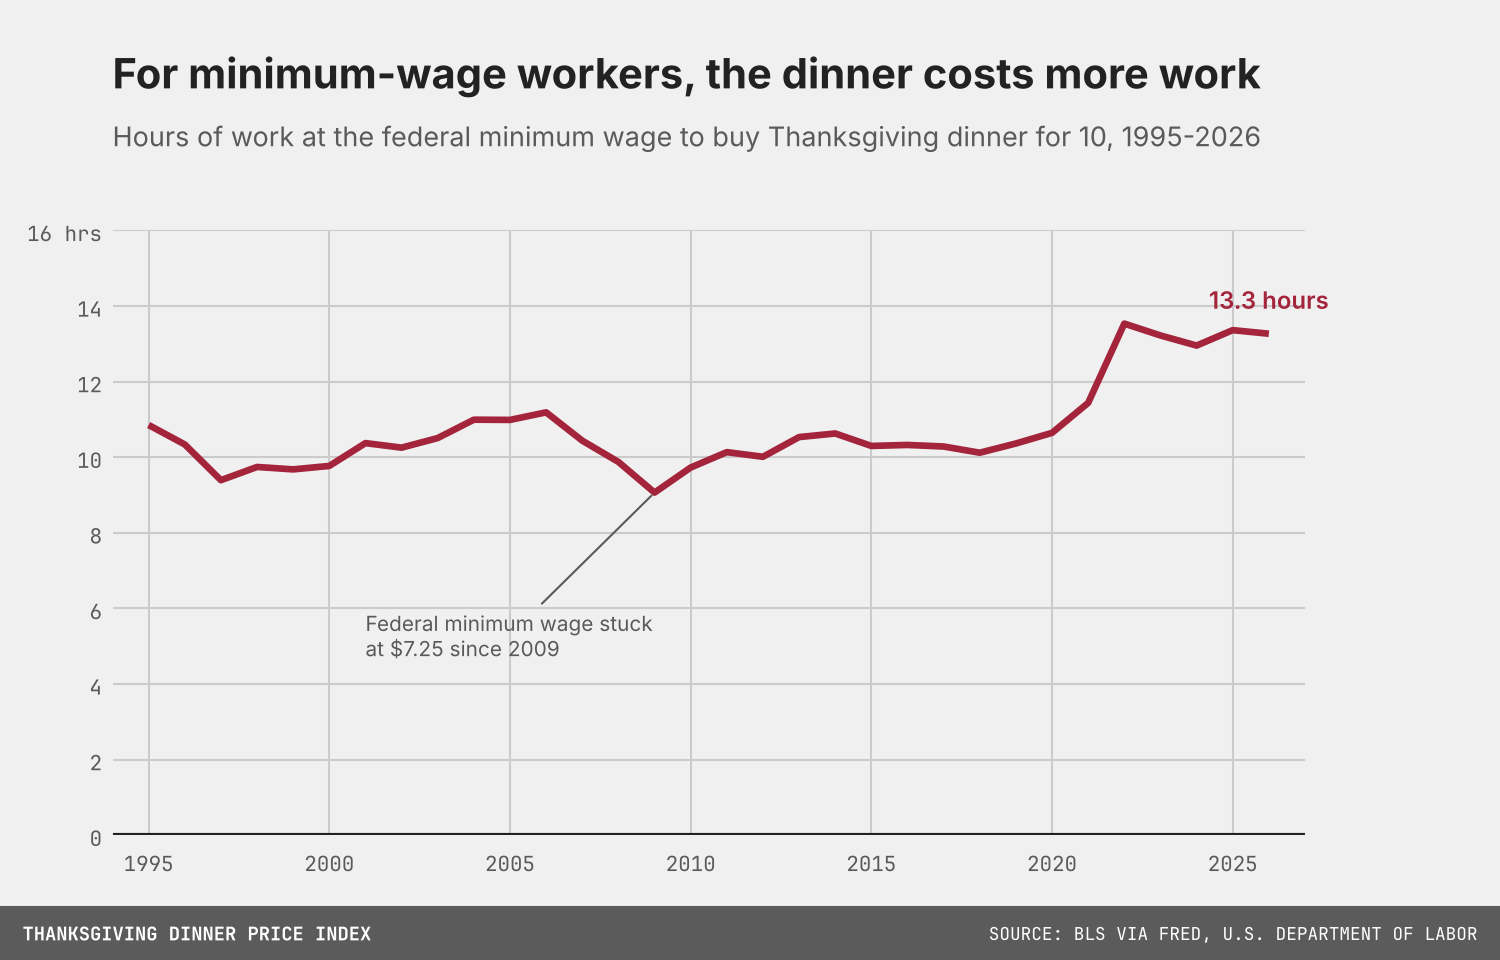
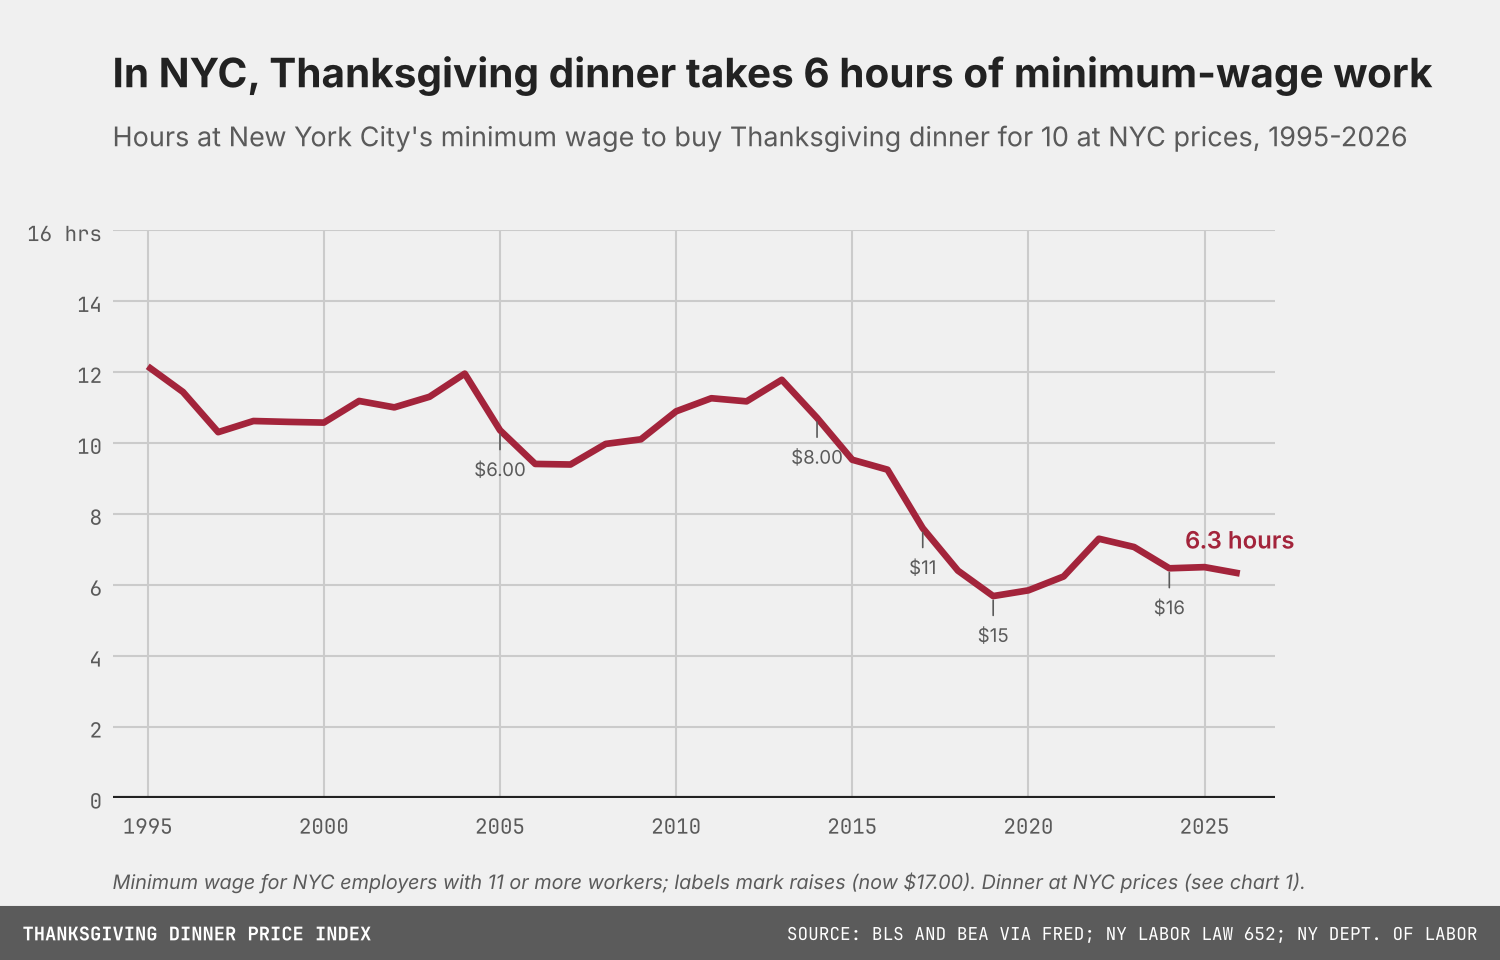
Chart 7: hours of work at New York City's minimum wage
NYC rate = higher of federal and NY State rates, with NYC's 2017-2023
schedule for employers with 11+ workers (NY Labor Law 652). Dinner at
NYC prices. README updated.

Claude-Session: https://claude.ai/code/session_015UrztArHpAPPRd1ooHHwA1

diff --git a/deep_dive.py b/deep_dive.py
@@ -124,11 +124,25 @@ print(table[[c for c in table.columns if c.startswith("dinner")]].round(1).to_st
 minwage = fred("FEDMINNFRWG", 10)
 wage = pd.DataFrame({"dinner": dinner, "federal_min_wage": minwage.reindex(dinner.index)})
 wage["hours_at_federal_min"] = wage.dinner / wage.federal_min_wage
+# New York City minimum wage in October: the higher of the federal and New York State
+# rates (FRED STTMINWGNY), except 2017-2023, when NYC's rate for employers with 11+ workers
+# (NY Labor Law 652) was above the statewide figure FRED reports: $11 from Dec 31, 2016,
+# $13 from Dec 31, 2017, $15 from Dec 31, 2018. Small NYC employers phased in a year later.
+ny_state = fred("STTMINWGNY", 1)
+NYC_OVERRIDE = {2017: 11.00, 2018: 13.00, 2019: 15.00, 2020: 15.00, 2021: 15.00, 2022: 15.00, 2023: 15.00}
+nyc_min = pd.concat([minwage, ny_state.reindex(minwage.index)], axis=1).max(axis=1)
+for yr, v in NYC_OVERRIDE.items():
+    nyc_min[yr] = v
+wage["nyc_min_wage"] = nyc_min.reindex(wage.index)
+wage["dinner_nyc"] = summary["basket_cost_nyc"].reindex(wage.index)
+wage["hours_at_nyc_min"] = wage.dinner_nyc / wage.nyc_min_wage
 wage.round(2).to_csv(OUT / "deep_dive_wages.csv")
 print("\n== E. Low-wage workers ==")
 print(wage.loc[[1995, 2000, 2005, 2009, 2010, 2015, 2019, 2021, 2022, 2023, 2024, 2025, 2026]].round(2).to_string())
 print("hours at federal minimum, 2026 rank (1 = most hours):",
       int(wage.hours_at_federal_min.rank(ascending=False).loc[2026]), "of", wage.hours_at_federal_min.notna().sum())
+print("hours at NYC minimum, 2026 rank (1 = most hours):",
+      int(wage.hours_at_nyc_min.rank(ascending=False).loc[2026]), "of", wage.hours_at_nyc_min.notna().sum())
 
 # ---------------- F. Prices, rent and the minimum wage ----------------
 cpi_m = fred("CPIAUCSL")
@@ -202,18 +216,23 @@ cs.finish(fig, "The squeeze is widest at the bottom",
           "BLS Consumer Expenditure Survey via FRED", OUT / "6_who_is_squeezed.png",
           note="Right panel omits married couples with young children (much higher incomes and a one-year spike in 2019).")
 
-w = wage.dropna(subset=["hours_at_federal_min"])
-h = w.hours_at_federal_min
+w = wage.dropna(subset=["hours_at_nyc_min"])
+h = w.hours_at_nyc_min
 fig, ax = cs.figure()
-ax.set_ylim(0, 2 * int(np.ceil(h.max() * 1.15 / 2)))
+fig.subplots_adjust(right=0.85)
+ax.set_ylim(0, 2 * int(np.ceil(h.max() * 1.2 / 2)))
 ax.set_xlim(h.index.min() - 1, h.index.max() + 1)
 ax.plot(h.index, h, color=cs.RED)
 ax.annotate(f"{h.iloc[-1]:.1f} hours", (h.index[-1], h.iloc[-1]), xytext=(0, 12), textcoords="offset points",
             ha="center", color=cs.RED, fontweight="semibold")
-ax.annotate("Federal minimum wage stuck\nat $7.25 since 2009", (2009, h[2009]), xytext=(2001, h.max() * 0.35),
-            fontsize=10, color=cs.MUTED, arrowprops=dict(arrowstyle="-", color=cs.MUTED, lw=1))
+# Mark NYC minimum wage steps
+for yr, label in [(2005, "$6.00"), (2014, "$8.00"), (2017, "$11"), (2019, "$15"), (2024, "$16")]:
+    ax.annotate(f"{label}", (yr, h[yr]), xytext=(0, -22), textcoords="offset points", ha="center",
+                fontsize=9, color=cs.MUTED, arrowprops=dict(arrowstyle="-", color=cs.MUTED, lw=0.8))
 cs.baseline(ax, 0)
 cs.unit_on_top(ax, suffix=" hrs")
-cs.finish(fig, "For minimum-wage workers, the dinner costs more work",
-          f"Hours of work at the federal minimum wage to buy Thanksgiving dinner for 10, {h.index.min()}-{h.index.max()}",
-          "BLS via FRED, U.S. Department of Labor", OUT / "7_low_wage.png")
+cs.finish(fig, f"In NYC, Thanksgiving dinner takes {h.iloc[-1]:.0f} hours of minimum-wage work",
+          f"Hours at New York City's minimum wage to buy Thanksgiving dinner for 10 at NYC prices, {h.index.min()}-{h.index.max()}",
+          "BLS and BEA via FRED; NY Labor Law 652; NY Dept. of Labor", OUT / "7_low_wage.png",
+          note=f"Minimum wage for NYC employers with 11 or more workers; labels mark raises (now ${wage.nyc_min_wage.iloc[-1]:.2f}). "
+               "Dinner at NYC prices (see chart 1).")

diff --git a/README.md b/README.md
@@ -22,9 +22,11 @@ backtested time-series and machine-learning models.
 - **After essentials, the dinner takes a bigger bite for the bottom four income fifths.**
   For the lowest fifth it is 29.8% of a week's non-essential spending, vs 28.9% in 2019;
   for the second, 20.7% vs 18.8%. For the top fifth it is unchanged at 5.0%.
-- **Minimum-wage workers lost ground.** At $7.25 since 2009, the federal minimum buys 64%
-  of what it did. The dinner takes 13.3 hours of work, vs 10.4 in 2019, the 3rd-highest in
-  32 years.
+- **NYC's minimum wage outpaced the dinner; the federal one did not.** At New York City's
+  $17 minimum (employers with 11+ workers), the dinner at NYC prices takes 6.3 hours of
+  work, vs 9-12 hours before the city's raises began in 2017 (chart 7). At the federal
+  $7.25, unchanged since 2009, the national-price dinner takes 13.3 hours, the 3rd-highest
+  in 32 years.
 - **Not in annual data:** the November 2025 shutdown delayed or cut SNAP benefits for
   millions of households just before Thanksgiving.
 
